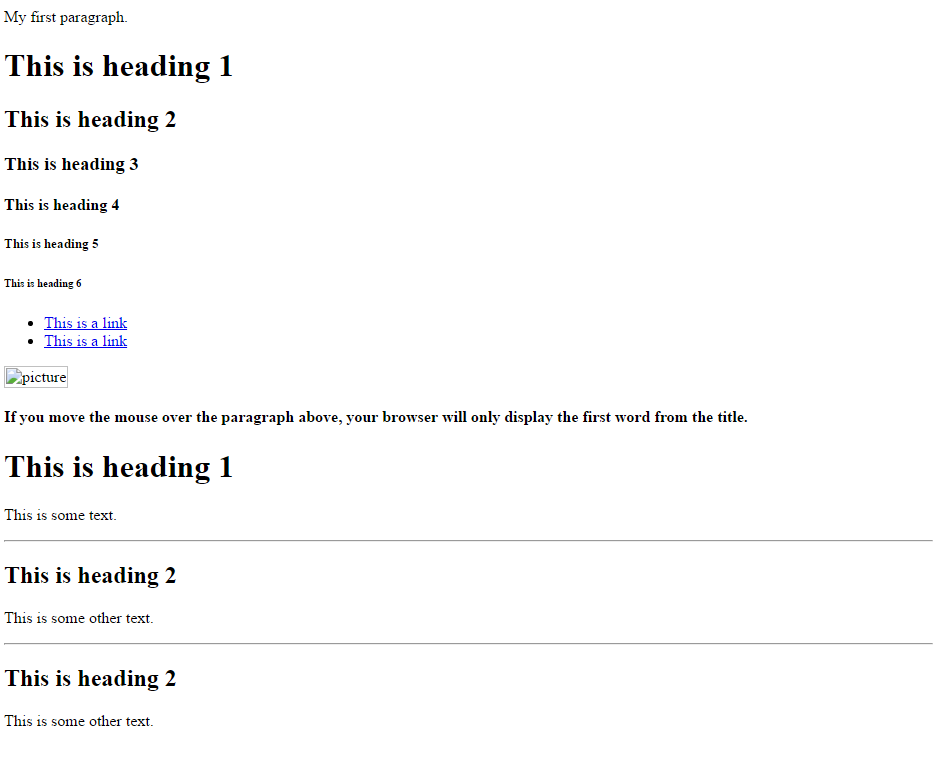
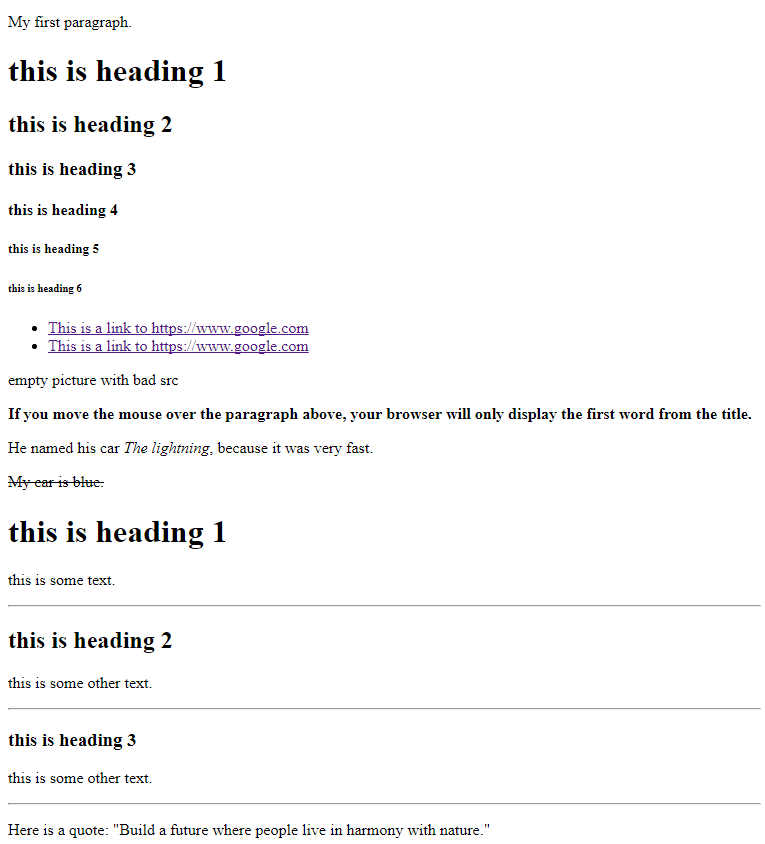
changes second lesson

Changed region(s): [[0.0, 0.0614, 0.9922, 0.8286], [0.0, 0.8593, 0.6314, 1.0], [0.0, 0.0, 0.1804, 0.0307]]

diff --git a/2/solution.html b/2/solution.html
@@ -1,0 +1,38 @@
+<!doctype html>
+<html>
+	<body>
+		<p>My first paragraph.</p>
+		<h1>this is heading 1</h1>
+		<h2>this is heading 2</h2>
+		<h3>this is heading 3</h3>
+		<h4>this is heading 4</h4>
+		<h5>this is heading 5</h5>
+		<h6>this is heading 6</h6>
+		<ul>
+			<li><a href="https://www.google.com">This is a link to https://www.google.com</a></li>
+			<li><a href="https://www.google.com">This is a link to https://www.google.com</a></li>
+		</ul>
+		<img src="google.png" alt="empty picture with bad src">
+		<p>
+			<b>
+				If you move the mouse over the paragraph above,
+				your browser will only display the first word from the title.
+			</b>
+		</p>
+		<p>He named his car <i>The lightning</i>, because it was very fast.</p>
+		<p><s>My car is blue.</s></p>
+		<h1>this is heading 1</h1>
+		<p>this is some text.</p>
+		<hr>
+		<h2>this is heading 2</h2>
+		<p>this is some other text.</p>
+		<hr>
+		<h3>this is heading 3</h3>
+		<p>this is some other text.</p>
+		<hr>
+		<p>
+			Here is a quote:
+			<q cite="">Build a future where people live in harmony with nature.</q>
+		</p>
+	</body>
+</html>
